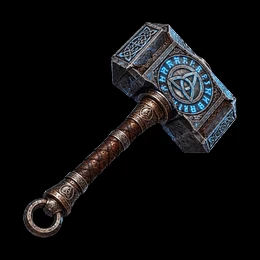
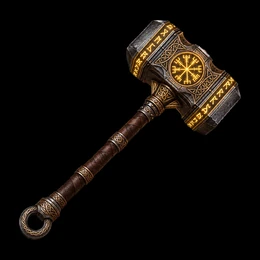
v4.87 屬性底紋與小圖示、奧丁之咒底紋、聖屬性金光、雷神黃雷新圖 (#108)
* v4.87 聖屬性白字金色光暈；索爾雷晶、索爾之錘換黃雷新圖

Claude-Session: https://claude.ai/code/session_01SeUeF3GZXFJm3dfT74oQ9s

* v4.87 屬性底紋（附魔表）＋屬性小圖示（屬性名稱前）

Claude-Session: https://claude.ai/code/session_01SeUeF3GZXFJm3dfT74oQ9s

* v4.87 武器名稱、武器小卡不放屬性小圖示

Claude-Session: https://claude.ai/code/session_01SeUeF3GZXFJm3dfT74oQ9s

* v4.87 奧丁之咒那一列加上紅色詛咒底紋

Claude-Session: https://claude.ai/code/session_01SeUeF3GZXFJm3dfT74oQ9s

---------

Changed region(s): [[0.0615, 0.0615, 0.9231, 0.9231]]

diff --git a/index.html b/index.html
@@ -1773,6 +1773,16 @@ html.scrimmed .cbar{display:none}
 /* v4.44 屬性一律文字標示（不用圖示）：每種屬性一個顏色 */
 .elc-fire{--ec:#ff8a4c}.elc-ice{--ec:#8fe3ff}.elc-bolt{--ec:#ffe23a}.elc-toxic{--ec:#8ed865}.elc-light{--ec:#fff1cf}.elc-dark{--ec:#a99bc9}   /* v4.84 Mochi：雷改亮黃、聖改白金（原本雷紫、聖黃） */
 [class*="elc-"]{color:var(--ec)}
+.elc-light.elc-light,.kvgrid .elc-light.elc-light{--ec:#f0c560;color:#fff8e4;text-shadow:0 0 6px rgba(255,200,90,.85),0 0 12px rgba(255,190,70,.4)}   /* v4.87 Mochi：聖屬性太像白色 → 白字＋金色光暈、金框（雷屬性是黃字） */
+.ec-c18.elc-light span{text-shadow:none}
+/* v4.87 Mochi 選 C：屬性底紋（附魔表格子，一級淡、三級最明顯）＋屬性小圖示（屬性名稱前面），圖都是 AI 生圖 */
+.elc-fire,.wn-el.e-fire{--ebg:url(art/elbg_fire.webp);--eic:url(art/elic_fire.webp)}.elc-ice,.wn-el.e-ice{--ebg:url(art/elbg_ice.webp);--eic:url(art/elic_ice.webp)}.elc-bolt,.wn-el.e-bolt{--ebg:url(art/elbg_bolt.webp);--eic:url(art/elic_bolt.webp)}.elc-toxic,.wn-el.e-toxic{--ebg:url(art/elbg_toxic.webp);--eic:url(art/elic_toxic.webp)}.elc-light,.wn-el.e-light{--ebg:url(art/elbg_light.webp);--eic:url(art/elic_light.webp)}.elc-dark,.wn-el.e-dark{--ebg:url(art/elbg_dark.webp);--eic:url(art/elic_dark.webp)}
+.ec-c18{position:relative;overflow:hidden;isolation:isolate}.ec-c18::before{content:'';position:absolute;inset:0;z-index:-1;background:var(--ebg) center bottom/cover no-repeat;opacity:.35;pointer-events:none}
+.ec-c18.t2::before{opacity:.6}.ec-c18.t3::before{opacity:.9}.ec-c18 b,.ec-c18 span{text-shadow:0 1px 3px #000,0 0 6px rgba(0,0,0,.9)}
+.ec-c18.elc-light b{text-shadow:0 1px 3px #000,0 0 6px rgba(0,0,0,.9),0 0 8px rgba(255,200,90,.7)}
+[class^="elc-"]::before,.ec-en::before,.wn-el::before{content:'';display:inline-block;width:1.05em;height:1.05em;margin-right:.12em;vertical-align:-.16em;background:var(--eic) center/contain no-repeat}
+.ec-en.ec-en{display:flex;flex-direction:column;align-items:center;justify-content:center;gap:2px;white-space:nowrap}.ec-en::before{width:22px;height:22px;margin:0}   /* 附魔表左邊屬性名：小圖示放上面，避免換行 */
+.wn-el::before,.wpop .el>b::before{display:none}   /* Mochi：武器名稱、武器小卡不放屬性小圖示（看起來很亂） */   /* 道具欄格子名稱太窄，不放小圖示 */
 .vweak.hit [class*="elc-"]{color:#cdf0c4}
 .el-box{flex:none;display:inline-flex;align-items:center;justify-content:center;width:40px;height:40px;border-radius:8px;border:1px solid var(--ec);background:rgba(0,0,0,.4);box-shadow:inset 0 0 8px color-mix(in srgb,var(--ec) 35%,transparent);font-size:14px;font-weight:700;letter-spacing:1px;line-height:1}
 .el-box.el-big{width:84px;height:84px;font-size:28px;border-radius:14px;margin:0 auto}
@@ -1796,10 +1806,11 @@ html.scrimmed .cbar{display:none}
 .wn-el.t2{text-shadow:0 0 6px rgba(var(--ec),.85),0 0 12px rgba(var(--ec),.5)}
 .wn-el.t3{text-shadow:0 0 4px rgba(var(--ec),1),0 0 10px rgba(var(--ec),.9),0 0 20px rgba(var(--ec),.6)}
 .wn-el.e-fire{--ec:255,120,40;color:#ffe2c8}.wn-el.e-ice{--ec:120,200,255;color:#e2f4ff}.wn-el.e-bolt{--ec:255,220,40;color:#fff7c2}
-.wn-el.e-toxic{--ec:110,230,90;color:#e2ffd8}.wn-el.e-light{--ec:255,240,200;color:#ffffff}.wn-el.e-dark{--ec:169,155,201;color:#ebe6f5}
+.wn-el.e-toxic{--ec:110,230,90;color:#e2ffd8}.wn-el.e-light{--ec:255,195,80;color:#fff8e4}.wn-el.e-dark{--ec:169,155,201;color:#ebe6f5}
 .wn-brk,.wn-brk.wn-brk{color:#ff5a4a;font-weight:700}   /* v4.83 奧丁之咒 */
 .ec-brk{display:flex;align-items:center;gap:8px;margin:6px 0 0;padding:7px 10px;border:1px solid rgba(255,90,74,.45);border-radius:8px;background:rgba(255,90,74,.08);font-size:13px}
 .ec-brk span:nth-child(2){flex:1;color:var(--muted,#b9ad9a)}.ec-brk b{color:#ff8a7a}
+.ec-brk{position:relative;overflow:hidden;isolation:isolate}.ec-brk::before{content:'';position:absolute;inset:0;z-index:-1;background:url(art/elbg_curse.webp) center bottom/cover no-repeat;opacity:.85;pointer-events:none}.ec-brk span,.ec-brk b{text-shadow:0 1px 3px #000,0 0 6px rgba(0,0,0,.9)}   /* v4.87 奧丁之咒底紋（AI 生圖） */
 .sh-2{display:flex;align-items:center;gap:4px}   /* v4.83 附魔小卡標題：左右各兩格，標題維持置中 */
 .lore-btn .lore-ic{width:40px;height:40px}.lore-btn .ph-ico.lore-ic{font-size:9px}
 .lore-art{margin:0 auto 10px;max-width:360px}.lore-art img,.lore-art .lore-img{display:block;width:100%;aspect-ratio:3/2;height:auto;border-radius:8px}.lore-art .ph-ico.lore-img{display:flex;font-size:14px}
@@ -2169,8 +2180,9 @@ const VERSION=3;
 const ART_V='?v=3';  // 武器顯示圖改過透明度：加版本號，避免瀏覽器沿用舊快取
 // v3.76 第二界的 AI 圖還沒到：先借第一界的圖顯示，圖到了刪掉對應那一項就好
 const ART_WAIT={};
-const ART_NEW=/^(mat_srelic)$/;   // v4.30 斯卡蒂之弓的舊圖換成索爾之錘、雷神錘柄：檔名沒變，加版本號避免沿用快取
-const A=n=>(n=ART_WAIT[n]||n,(typeof UI_ART!=='undefined'&&UI_ART[n])||'art/'+n+'.webp'+(n.endsWith('_disp')?ART_V:/^(mon|boss|bg)_|^v\d+$/.test(n)?(/^mon_13(_|$)/.test(n)?'?m=4.86':'?m=4.30'):'')+(ART_NEW.test(n)?(n.endsWith('_disp')?'&':'?')+'g=4.30':''));  // UI_ART（skin.js）可把既有圖示換成新素材路徑；預設空白＝不變
+const ART_NEW=/^(mat_srelic|mat_thor|g_skadi(_disp)?)$/;   // v4.87 索爾雷晶、索爾之錘換黃雷新圖
+   // v4.30 斯卡蒂之弓的舊圖換成索爾之錘、雷神錘柄：檔名沒變，加版本號避免沿用快取
+const A=n=>(n=ART_WAIT[n]||n,(typeof UI_ART!=='undefined'&&UI_ART[n])||'art/'+n+'.webp'+(n.endsWith('_disp')?ART_V:/^(mon|boss|bg)_|^v\d+$/.test(n)?(/^mon_13(_|$)/.test(n)?'?m=4.86':'?m=4.30'):'')+(ART_NEW.test(n)?(n.endsWith('_disp')?'&':'?')+'g='+(n==='mat_srelic'?'4.30':'4.87'):''));  // UI_ART（skin.js）可把既有圖示換成新素材路徑；預設空白＝不變
 // v4.54 新材料（Mochi 選：跟該界怪物故事有關、配方量加倍）：每一界 2 種一般材料（每打倒一隻 50%），怪物主題武器那關掉怪物部位（5%），第 10 關掉 Boss 素材（10%）
 const MAT_DEF=[['miron','中庭鐵礦','人類之境的鐵，鐵爐村鍛造的基本金屬。'],['pine','松林硬木','松林哨站一帶的硬木，做槍桿、弓身和握柄。'],['troll','巨魔石皮','山怪特羅爾照到陽光會變成石頭，這是牠半石化的外皮。'],['bifrost','彩虹橋碎晶','海姆達爾守護的彩虹橋碎片，霍夫德之劍的彩虹聖光就來自這裡。'],
  ['frost','約頓霜鐵','巨人國度永凍土層裡的冷鐵。'],['gwood','約頓巨木','巨人森林的古木，比人間的木頭大上十倍。'],['ubone','幻術巨人王骨','幻術巨人王烏特加德洛基的骨頭，摸起來會一直變形。'],['thor','索爾雷晶','雷神落雷打過的岩石結晶，裡面還有雷電在跑。']];
@@ -2497,7 +2509,7 @@ function loadState(){
 function save(){if(QUIET)return;S.savedAt=Date.now();CLOUD.dirty=true;if(CLOUD_ONLY)return;try{localStorage.setItem(KEY,JSON.stringify(S))}catch(e){}}
 
 /* ---------- v3.34 雲端帳號與存檔（Supabase：Email＋密碼；本機照常存，定時與離開時同步到雲端） ---------- */
-const BUILD_ID='4.86';const BUILD='v'+BUILD_ID+' 封測';const BETA=true;
+const BUILD_ID='4.87';const BUILD='v'+BUILD_ID+' 封測';const BETA=true;
 const MAINT=true;   // v4.18 封測暫停：開遊戲只看到維護公告，一般玩家進不去；只有管理員（admins 表）登入後能進。重新開放：改成 false 並更新 BUILD_ID
 const SB_URL='https://bzvilstgpjkztrydjwlt.supabase.co',SB_KEY='sb_publishable_CMSLltB8qKwMU3nUFezthw_HRm3EBN4',AUTH_KEY='nrs-auth';
 const CLOUD={dirty:false,busy:false,last:0,err:'',state:'off',ready:false,kicked:false};let SID=null;
@@ -3477,6 +3489,7 @@ function sndSettings(){if(ui.sheet&&ui.sheet.t==='set')return render();ui.result
 // v4.03 遊戲內公告＋玩法說明（Mochi 選：右上角齒輪取代喇叭、內容寫在程式裡、不自動跳出只亮紅點）
 // 每次更新：在 NW_LOG 最上面加一則（g＝這次改到的玩法 key），並把 GUIDE 裡對應項目的內容和 v 改成新版本 → 沒看過的玩家會看到 NEW、齒輪亮紅點
 const NW_LOG=[
+ {v:'4.87',d:'10/25',t:'屬性底紋與小圖示・聖屬性金光・雷神新圖',b:['附魔表 18 格加上<b>屬性底紋</b>（火焰、冰霜、雷電、毒霧、聖光、暗影），一級淡、三級最明顯；「奧丁之咒」那一列也有紅色詛咒底紋','屬性名稱前面加上<b>屬性小圖示</b>：附魔表、武器名稱、村莊屬性和弱點都看得到','<b>聖屬性</b>改成白字配<b>金色光暈</b>和金框，不會再像一般白字；雷屬性還是亮黃字，兩個分得開','<b>索爾雷晶</b>和<b>索爾之錘</b>換成黃色雷電的新圖，跟雷屬性顏色一致'],g:['ench']},
  {v:'4.86',d:'10/25',t:'吞屍巨鷹換新圖',b:['2-3 <b>吞屍巨鷹赫拉斯瓦爾格</b>換上新的頭像、待機和攻擊圖：黑羽配金邊、金色眼睛和亮黃雷電，跟雷屬性的新顏色一致'],g:['hp']},
  {v:'4.85',d:'10/25',t:'奧丁之咒武器不會再藏起來',b:['中了<b>奧丁之咒</b>的武器，在道具欄會<b>自己一格</b>，不會再跟同款武器疊在一起看不到','武器圖下方會標紅色「奧丁之咒」，一眼就認得出來'],g:['ench']},
  {v:'4.84',d:'10/25',t:'屬性顏色調整',b:['<b>雷屬性</b>改成閃電<b>亮黃色</b>（原本紫色，跟暗屬性太像）','<b>聖屬性</b>改成<b>白金色</b>，六種屬性一眼就能分開'],g:['ench']},
@@ -4810,9 +4823,9 @@ function viewShop(){
 // v4.62 開發者工具「依版本」分頁（Mochi）：新版本一律加在最上面，一個版本一段。
 // v＝版本、t＝這版改了什麼（一句話）、b＝[按鈕代碼, 按鈕文字]；按鈕代碼就是 devdo(k) 的 k，文字可以是函式（會變的狀態）
 const DEV_LOG=[
+ {v:'4.87',t:'屬性底紋＋小圖示；聖屬性改白字＋金色光暈、金框；索爾雷晶、索爾之錘換黃雷新圖',b:[['thor87','給 1 把 +6 索爾之錘＋10 個索爾雷晶（看新圖）'],['res77','打開附魔表看聖屬性'],['elall','給 6 把不同屬性的武器（看名稱）']]},
  {v:'4.86',t:'2-3 吞屍巨鷹換黃雷新圖（頭像、待機、攻擊）',b:[['eagle86','打開 2-3 村莊詳情看巨鷹新圖'],['eagle86b','2-3 駐守一把 +6 劍，展開戰鬥畫面看待機和攻擊']]},
  {v:'4.85',t:'奧丁之咒武器在道具欄自己一格（不跟同款疊在一起）',b:[['brkstk','給 3 把同款 +6 劍，其中 1 把中咒（看道具欄）']]},
- {v:'4.84',t:'雷屬性改亮黃、聖屬性改白金',b:[['elall','給 6 把不同屬性的武器（看名稱顏色）'],['res77','打開附魔表看 18 格顏色']]},
  {v:'4.83',t:'附魔 5% 奧丁之咒＋矮人解咒石、商城賣強化石／附魔石、附魔故事書',b:[['lore83','打開附魔故事書「矮人盜石」（第一次送 10 附魔石＋2 解咒石）'],['lore83r','重置故事書已讀（可以再領一次測試）'],['brk83','給 1 把中咒測試劍＋3 顆解咒石，打開武器小卡'],['brk83f','下一次附魔一定中奧丁之咒（給三級火屬性劍＋附魔石）'],['brk83s','打開商城看矮人解咒石']]},
  {v:'4.82',t:'三級屬性重抽跳置中確認小卡',b:[['ench81','給 1 把三級火屬性測試劍＋附魔石，打開附魔（按附魔會跳確認小卡）']]},
  {v:'4.80',t:'屬性加成 +3／6／10%、同屬性 −3／6／10%',b:[['res77','給 1-9 用的三級冰／火屬性武器（應 ×1.1／×0.9）、打開附魔表'],['res77i','開火屬性說明小卡（+3%～10%）']]},
@@ -5052,6 +5065,7 @@ if(k==='cpush'){toast('上傳中…');cloudPush(true).then(()=>{toast(CLOUD.err?
   if(k==='race78'){S.villages.forEach((v,i)=>{if(i<4)v.status='cleared'});if(S.villages[4].status==='locked')S.villages[4].status='open';ui.testOut='<b>v4.78 武器剋制</b><br>'+Object.entries(CAT_RACE).map(([c,r])=>CATS[c]+'→'+RACE_N[r]).join('、')+'<br><b>20 關型態</b><br>'+MON_RACE.map((r,i)=>vNo(i)+' '+RACE_N[r]).join('、');ui.sheet={t:'v',i:4};render();return toast('1-5 戰場鴉魔應該是亡靈')}
   if(k==='race79'){ui.testOut='<b>v4.79 相剋加成</b><br>'+RACE_PCT.map((p,l)=>'+'+l+' '+p+'%').join('、');const w=makeWeapon('dev_sword',2,9,[]);save();ui.sheet={t:'w',id:w.id,m:'main'};render();return toast('+9 相剋應為 12%，下一級 +10 為 15%')}
   if(k==='elpop'){const w=makeWeapon('dev_sword',2,6,[],[{k:'bolt',v:3},null,null,null]);save();ui.sheet={t:'w',id:w.id,m:'ench'};ui.result=Object.assign({t:'info'},affInfo('bolt'));render();return}
+  if(k==='thor87'){const w=makeWeapon('g_skadi',2,6,[]);S.mats.thor=(S.mats.thor|0)+10;save();ui.tab='armory';ui.atab='w';ui.sheet={t:'w',id:w.id,m:'main'};render();return toast('已給 +6 索爾之錘、索爾雷晶 ×10（材料分頁看雷晶）','ok')}
   if(k==='eagle86b'){devBps();S.villages.forEach((v,i)=>{if(i<=12)v.status='cleared'});const st=S.villages[12],w=makeWeapon('dev_sword',2,6,[]);st.weaponId=w.id;st.cycleStart=NOW()-dur(12,w)*.3;delete MONFX.hp[12];ui.realm=1;ui.tab='village';ui.sheet=null;ui.bsOpen=12;save();render();setTimeout(()=>document.querySelectorAll('#view .vcard')[2]?.scrollIntoView({block:'start'}),50);return}
   if(k==='eagle86'){S.villages.forEach((v,i)=>{if(i<12&&v.status==='locked')v.status='cleared'});if(S.villages[12].status==='locked')S.villages[12].status='open';ui.realm=1;ui.tab='village';ui.sheet={t:'v',i:12};render();return}
   if(k==='brkstk'){[0,1,2].forEach(j=>makeWeapon('dev_sword',2,6,[],[j?null:{k:'broken',v:1},null,null,null]));save();ui.sheet=null;ui.tab='armory';ui.atab='w';render();return toast('已給 3 把 +6 測試劍：2 把疊成 ×2、1 把奧丁之咒自己一格','ok')}

diff --git a/src/game.js b/src/game.js
@@ -4,8 +4,9 @@ const VERSION=3;
 const ART_V='?v=3';  // 武器顯示圖改過透明度：加版本號，避免瀏覽器沿用舊快取
 // v3.76 第二界的 AI 圖還沒到：先借第一界的圖顯示，圖到了刪掉對應那一項就好
 const ART_WAIT={};
-const ART_NEW=/^(mat_srelic)$/;   // v4.30 斯卡蒂之弓的舊圖換成索爾之錘、雷神錘柄：檔名沒變，加版本號避免沿用快取
-const A=n=>(n=ART_WAIT[n]||n,(typeof UI_ART!=='undefined'&&UI_ART[n])||'art/'+n+'.webp'+(n.endsWith('_disp')?ART_V:/^(mon|boss|bg)_|^v\d+$/.test(n)?(/^mon_13(_|$)/.test(n)?'?m=4.86':'?m=4.30'):'')+(ART_NEW.test(n)?(n.endsWith('_disp')?'&':'?')+'g=4.30':''));  // UI_ART（skin.js）可把既有圖示換成新素材路徑；預設空白＝不變
+const ART_NEW=/^(mat_srelic|mat_thor|g_skadi(_disp)?)$/;   // v4.87 索爾雷晶、索爾之錘換黃雷新圖
+   // v4.30 斯卡蒂之弓的舊圖換成索爾之錘、雷神錘柄：檔名沒變，加版本號避免沿用快取
+const A=n=>(n=ART_WAIT[n]||n,(typeof UI_ART!=='undefined'&&UI_ART[n])||'art/'+n+'.webp'+(n.endsWith('_disp')?ART_V:/^(mon|boss|bg)_|^v\d+$/.test(n)?(/^mon_13(_|$)/.test(n)?'?m=4.86':'?m=4.30'):'')+(ART_NEW.test(n)?(n.endsWith('_disp')?'&':'?')+'g='+(n==='mat_srelic'?'4.30':'4.87'):''));  // UI_ART（skin.js）可把既有圖示換成新素材路徑；預設空白＝不變
 // v4.54 新材料（Mochi 選：跟該界怪物故事有關、配方量加倍）：每一界 2 種一般材料（每打倒一隻 50%），怪物主題武器那關掉怪物部位（5%），第 10 關掉 Boss 素材（10%）
 const MAT_DEF=[['miron','中庭鐵礦','人類之境的鐵，鐵爐村鍛造的基本金屬。'],['pine','松林硬木','松林哨站一帶的硬木，做槍桿、弓身和握柄。'],['troll','巨魔石皮','山怪特羅爾照到陽光會變成石頭，這是牠半石化的外皮。'],['bifrost','彩虹橋碎晶','海姆達爾守護的彩虹橋碎片，霍夫德之劍的彩虹聖光就來自這裡。'],
  ['frost','約頓霜鐵','巨人國度永凍土層裡的冷鐵。'],['gwood','約頓巨木','巨人森林的古木，比人間的木頭大上十倍。'],['ubone','幻術巨人王骨','幻術巨人王烏特加德洛基的骨頭，摸起來會一直變形。'],['thor','索爾雷晶','雷神落雷打過的岩石結晶，裡面還有雷電在跑。']];
@@ -332,7 +333,7 @@ function loadState(){
 function save(){if(QUIET)return;S.savedAt=Date.now();CLOUD.dirty=true;if(CLOUD_ONLY)return;try{localStorage.setItem(KEY,JSON.stringify(S))}catch(e){}}
 
 /* ---------- v3.34 雲端帳號與存檔（Supabase：Email＋密碼；本機照常存，定時與離開時同步到雲端） ---------- */
-const BUILD_ID='4.86';const BUILD='v'+BUILD_ID+' 封測';const BETA=true;
+const BUILD_ID='4.87';const BUILD='v'+BUILD_ID+' 封測';const BETA=true;
 const MAINT=true;   // v4.18 封測暫停：開遊戲只看到維護公告，一般玩家進不去；只有管理員（admins 表）登入後能進。重新開放：改成 false 並更新 BUILD_ID
 const SB_URL='https://bzvilstgpjkztrydjwlt.supabase.co',SB_KEY='sb_publishable_CMSLltB8qKwMU3nUFezthw_HRm3EBN4',AUTH_KEY='nrs-auth';
 const CLOUD={dirty:false,busy:false,last:0,err:'',state:'off',ready:false,kicked:false};let SID=null;
@@ -1312,6 +1313,7 @@ function sndSettings(){if(ui.sheet&&ui.sheet.t==='set')return render();ui.result
 // v4.03 遊戲內公告＋玩法說明（Mochi 選：右上角齒輪取代喇叭、內容寫在程式裡、不自動跳出只亮紅點）
 // 每次更新：在 NW_LOG 最上面加一則（g＝這次改到的玩法 key），並把 GUIDE 裡對應項目的內容和 v 改成新版本 → 沒看過的玩家會看到 NEW、齒輪亮紅點
 const NW_LOG=[
+ {v:'4.87',d:'10/25',t:'屬性底紋與小圖示・聖屬性金光・雷神新圖',b:['附魔表 18 格加上<b>屬性底紋</b>（火焰、冰霜、雷電、毒霧、聖光、暗影），一級淡、三級最明顯；「奧丁之咒」那一列也有紅色詛咒底紋','屬性名稱前面加上<b>屬性小圖示</b>：附魔表、武器名稱、村莊屬性和弱點都看得到','<b>聖屬性</b>改成白字配<b>金色光暈</b>和金框，不會再像一般白字；雷屬性還是亮黃字，兩個分得開','<b>索爾雷晶</b>和<b>索爾之錘</b>換成黃色雷電的新圖，跟雷屬性顏色一致'],g:['ench']},
  {v:'4.86',d:'10/25',t:'吞屍巨鷹換新圖',b:['2-3 <b>吞屍巨鷹赫拉斯瓦爾格</b>換上新的頭像、待機和攻擊圖：黑羽配金邊、金色眼睛和亮黃雷電，跟雷屬性的新顏色一致'],g:['hp']},
  {v:'4.85',d:'10/25',t:'奧丁之咒武器不會再藏起來',b:['中了<b>奧丁之咒</b>的武器，在道具欄會<b>自己一格</b>，不會再跟同款武器疊在一起看不到','武器圖下方會標紅色「奧丁之咒」，一眼就認得出來'],g:['ench']},
  {v:'4.84',d:'10/25',t:'屬性顏色調整',b:['<b>雷屬性</b>改成閃電<b>亮黃色</b>（原本紫色，跟暗屬性太像）','<b>聖屬性</b>改成<b>白金色</b>，六種屬性一眼就能分開'],g:['ench']},
@@ -2645,9 +2647,9 @@ function viewShop(){
 // v4.62 開發者工具「依版本」分頁（Mochi）：新版本一律加在最上面，一個版本一段。
 // v＝版本、t＝這版改了什麼（一句話）、b＝[按鈕代碼, 按鈕文字]；按鈕代碼就是 devdo(k) 的 k，文字可以是函式（會變的狀態）
 const DEV_LOG=[
+ {v:'4.87',t:'屬性底紋＋小圖示；聖屬性改白字＋金色光暈、金框；索爾雷晶、索爾之錘換黃雷新圖',b:[['thor87','給 1 把 +6 索爾之錘＋10 個索爾雷晶（看新圖）'],['res77','打開附魔表看聖屬性'],['elall','給 6 把不同屬性的武器（看名稱）']]},
  {v:'4.86',t:'2-3 吞屍巨鷹換黃雷新圖（頭像、待機、攻擊）',b:[['eagle86','打開 2-3 村莊詳情看巨鷹新圖'],['eagle86b','2-3 駐守一把 +6 劍，展開戰鬥畫面看待機和攻擊']]},
  {v:'4.85',t:'奧丁之咒武器在道具欄自己一格（不跟同款疊在一起）',b:[['brkstk','給 3 把同款 +6 劍，其中 1 把中咒（看道具欄）']]},
- {v:'4.84',t:'雷屬性改亮黃、聖屬性改白金',b:[['elall','給 6 把不同屬性的武器（看名稱顏色）'],['res77','打開附魔表看 18 格顏色']]},
  {v:'4.83',t:'附魔 5% 奧丁之咒＋矮人解咒石、商城賣強化石／附魔石、附魔故事書',b:[['lore83','打開附魔故事書「矮人盜石」（第一次送 10 附魔石＋2 解咒石）'],['lore83r','重置故事書已讀（可以再領一次測試）'],['brk83','給 1 把中咒測試劍＋3 顆解咒石，打開武器小卡'],['brk83f','下一次附魔一定中奧丁之咒（給三級火屬性劍＋附魔石）'],['brk83s','打開商城看矮人解咒石']]},
  {v:'4.82',t:'三級屬性重抽跳置中確認小卡',b:[['ench81','給 1 把三級火屬性測試劍＋附魔石，打開附魔（按附魔會跳確認小卡）']]},
  {v:'4.80',t:'屬性加成 +3／6／10%、同屬性 −3／6／10%',b:[['res77','給 1-9 用的三級冰／火屬性武器（應 ×1.1／×0.9）、打開附魔表'],['res77i','開火屬性說明小卡（+3%～10%）']]},
@@ -2887,6 +2889,7 @@ if(k==='cpush'){toast('上傳中…');cloudPush(true).then(()=>{toast(CLOUD.err?
   if(k==='race78'){S.villages.forEach((v,i)=>{if(i<4)v.status='cleared'});if(S.villages[4].status==='locked')S.villages[4].status='open';ui.testOut='<b>v4.78 武器剋制</b><br>'+Object.entries(CAT_RACE).map(([c,r])=>CATS[c]+'→'+RACE_N[r]).join('、')+'<br><b>20 關型態</b><br>'+MON_RACE.map((r,i)=>vNo(i)+' '+RACE_N[r]).join('、');ui.sheet={t:'v',i:4};render();return toast('1-5 戰場鴉魔應該是亡靈')}
   if(k==='race79'){ui.testOut='<b>v4.79 相剋加成</b><br>'+RACE_PCT.map((p,l)=>'+'+l+' '+p+'%').join('、');const w=makeWeapon('dev_sword',2,9,[]);save();ui.sheet={t:'w',id:w.id,m:'main'};render();return toast('+9 相剋應為 12%，下一級 +10 為 15%')}
   if(k==='elpop'){const w=makeWeapon('dev_sword',2,6,[],[{k:'bolt',v:3},null,null,null]);save();ui.sheet={t:'w',id:w.id,m:'ench'};ui.result=Object.assign({t:'info'},affInfo('bolt'));render();return}
+  if(k==='thor87'){const w=makeWeapon('g_skadi',2,6,[]);S.mats.thor=(S.mats.thor|0)+10;save();ui.tab='armory';ui.atab='w';ui.sheet={t:'w',id:w.id,m:'main'};render();return toast('已給 +6 索爾之錘、索爾雷晶 ×10（材料分頁看雷晶）','ok')}
   if(k==='eagle86b'){devBps();S.villages.forEach((v,i)=>{if(i<=12)v.status='cleared'});const st=S.villages[12],w=makeWeapon('dev_sword',2,6,[]);st.weaponId=w.id;st.cycleStart=NOW()-dur(12,w)*.3;delete MONFX.hp[12];ui.realm=1;ui.tab='village';ui.sheet=null;ui.bsOpen=12;save();render();setTimeout(()=>document.querySelectorAll('#view .vcard')[2]?.scrollIntoView({block:'start'}),50);return}
   if(k==='eagle86'){S.villages.forEach((v,i)=>{if(i<12&&v.status==='locked')v.status='cleared'});if(S.villages[12].status==='locked')S.villages[12].status='open';ui.realm=1;ui.tab='village';ui.sheet={t:'v',i:12};render();return}
   if(k==='brkstk'){[0,1,2].forEach(j=>makeWeapon('dev_sword',2,6,[],[j?null:{k:'broken',v:1},null,null,null]));save();ui.sheet=null;ui.tab='armory';ui.atab='w';render();return toast('已給 3 把 +6 測試劍：2 把疊成 ×2、1 把奧丁之咒自己一格','ok')}

diff --git a/src/style.css b/src/style.css
@@ -1757,6 +1757,16 @@ html.scrimmed .cbar{display:none}
 /* v4.44 屬性一律文字標示（不用圖示）：每種屬性一個顏色 */
 .elc-fire{--ec:#ff8a4c}.elc-ice{--ec:#8fe3ff}.elc-bolt{--ec:#ffe23a}.elc-toxic{--ec:#8ed865}.elc-light{--ec:#fff1cf}.elc-dark{--ec:#a99bc9}   /* v4.84 Mochi：雷改亮黃、聖改白金（原本雷紫、聖黃） */
 [class*="elc-"]{color:var(--ec)}
+.elc-light.elc-light,.kvgrid .elc-light.elc-light{--ec:#f0c560;color:#fff8e4;text-shadow:0 0 6px rgba(255,200,90,.85),0 0 12px rgba(255,190,70,.4)}   /* v4.87 Mochi：聖屬性太像白色 → 白字＋金色光暈、金框（雷屬性是黃字） */
+.ec-c18.elc-light span{text-shadow:none}
+/* v4.87 Mochi 選 C：屬性底紋（附魔表格子，一級淡、三級最明顯）＋屬性小圖示（屬性名稱前面），圖都是 AI 生圖 */
+.elc-fire,.wn-el.e-fire{--ebg:url(art/elbg_fire.webp);--eic:url(art/elic_fire.webp)}.elc-ice,.wn-el.e-ice{--ebg:url(art/elbg_ice.webp);--eic:url(art/elic_ice.webp)}.elc-bolt,.wn-el.e-bolt{--ebg:url(art/elbg_bolt.webp);--eic:url(art/elic_bolt.webp)}.elc-toxic,.wn-el.e-toxic{--ebg:url(art/elbg_toxic.webp);--eic:url(art/elic_toxic.webp)}.elc-light,.wn-el.e-light{--ebg:url(art/elbg_light.webp);--eic:url(art/elic_light.webp)}.elc-dark,.wn-el.e-dark{--ebg:url(art/elbg_dark.webp);--eic:url(art/elic_dark.webp)}
+.ec-c18{position:relative;overflow:hidden;isolation:isolate}.ec-c18::before{content:'';position:absolute;inset:0;z-index:-1;background:var(--ebg) center bottom/cover no-repeat;opacity:.35;pointer-events:none}
+.ec-c18.t2::before{opacity:.6}.ec-c18.t3::before{opacity:.9}.ec-c18 b,.ec-c18 span{text-shadow:0 1px 3px #000,0 0 6px rgba(0,0,0,.9)}
+.ec-c18.elc-light b{text-shadow:0 1px 3px #000,0 0 6px rgba(0,0,0,.9),0 0 8px rgba(255,200,90,.7)}
+[class^="elc-"]::before,.ec-en::before,.wn-el::before{content:'';display:inline-block;width:1.05em;height:1.05em;margin-right:.12em;vertical-align:-.16em;background:var(--eic) center/contain no-repeat}
+.ec-en.ec-en{display:flex;flex-direction:column;align-items:center;justify-content:center;gap:2px;white-space:nowrap}.ec-en::before{width:22px;height:22px;margin:0}   /* 附魔表左邊屬性名：小圖示放上面，避免換行 */
+.wn-el::before,.wpop .el>b::before{display:none}   /* Mochi：武器名稱、武器小卡不放屬性小圖示（看起來很亂） */   /* 道具欄格子名稱太窄，不放小圖示 */
 .vweak.hit [class*="elc-"]{color:#cdf0c4}
 .el-box{flex:none;display:inline-flex;align-items:center;justify-content:center;width:40px;height:40px;border-radius:8px;border:1px solid var(--ec);background:rgba(0,0,0,.4);box-shadow:inset 0 0 8px color-mix(in srgb,var(--ec) 35%,transparent);font-size:14px;font-weight:700;letter-spacing:1px;line-height:1}
 .el-box.el-big{width:84px;height:84px;font-size:28px;border-radius:14px;margin:0 auto}
@@ -1780,10 +1790,11 @@ html.scrimmed .cbar{display:none}
 .wn-el.t2{text-shadow:0 0 6px rgba(var(--ec),.85),0 0 12px rgba(var(--ec),.5)}
 .wn-el.t3{text-shadow:0 0 4px rgba(var(--ec),1),0 0 10px rgba(var(--ec),.9),0 0 20px rgba(var(--ec),.6)}
 .wn-el.e-fire{--ec:255,120,40;color:#ffe2c8}.wn-el.e-ice{--ec:120,200,255;color:#e2f4ff}.wn-el.e-bolt{--ec:255,220,40;color:#fff7c2}
-.wn-el.e-toxic{--ec:110,230,90;color:#e2ffd8}.wn-el.e-light{--ec:255,240,200;color:#ffffff}.wn-el.e-dark{--ec:169,155,201;color:#ebe6f5}
+.wn-el.e-toxic{--ec:110,230,90;color:#e2ffd8}.wn-el.e-light{--ec:255,195,80;color:#fff8e4}.wn-el.e-dark{--ec:169,155,201;color:#ebe6f5}
 .wn-brk,.wn-brk.wn-brk{color:#ff5a4a;font-weight:700}   /* v4.83 奧丁之咒 */
 .ec-brk{display:flex;align-items:center;gap:8px;margin:6px 0 0;padding:7px 10px;border:1px solid rgba(255,90,74,.45);border-radius:8px;background:rgba(255,90,74,.08);font-size:13px}
 .ec-brk span:nth-child(2){flex:1;color:var(--muted,#b9ad9a)}.ec-brk b{color:#ff8a7a}
+.ec-brk{position:relative;overflow:hidden;isolation:isolate}.ec-brk::before{content:'';position:absolute;inset:0;z-index:-1;background:url(art/elbg_curse.webp) center bottom/cover no-repeat;opacity:.85;pointer-events:none}.ec-brk span,.ec-brk b{text-shadow:0 1px 3px #000,0 0 6px rgba(0,0,0,.9)}   /* v4.87 奧丁之咒底紋（AI 生圖） */
 .sh-2{display:flex;align-items:center;gap:4px}   /* v4.83 附魔小卡標題：左右各兩格，標題維持置中 */
 .lore-btn .lore-ic{width:40px;height:40px}.lore-btn .ph-ico.lore-ic{font-size:9px}
 .lore-art{margin:0 auto 10px;max-width:360px}.lore-art img,.lore-art .lore-img{display:block;width:100%;aspect-ratio:3/2;height:auto;border-radius:8px}.lore-art .ph-ico.lore-img{display:flex;font-size:14px}
